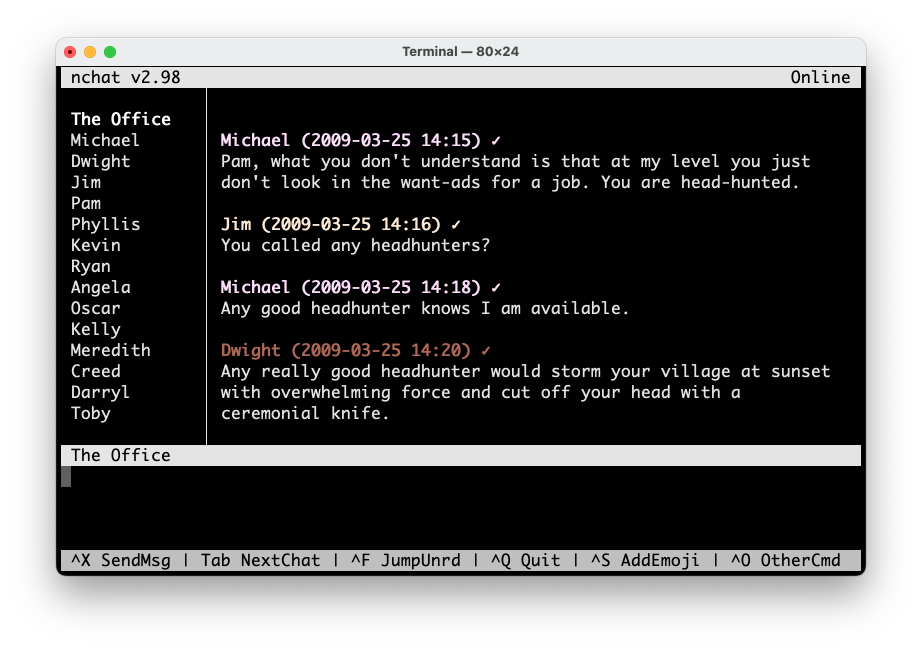
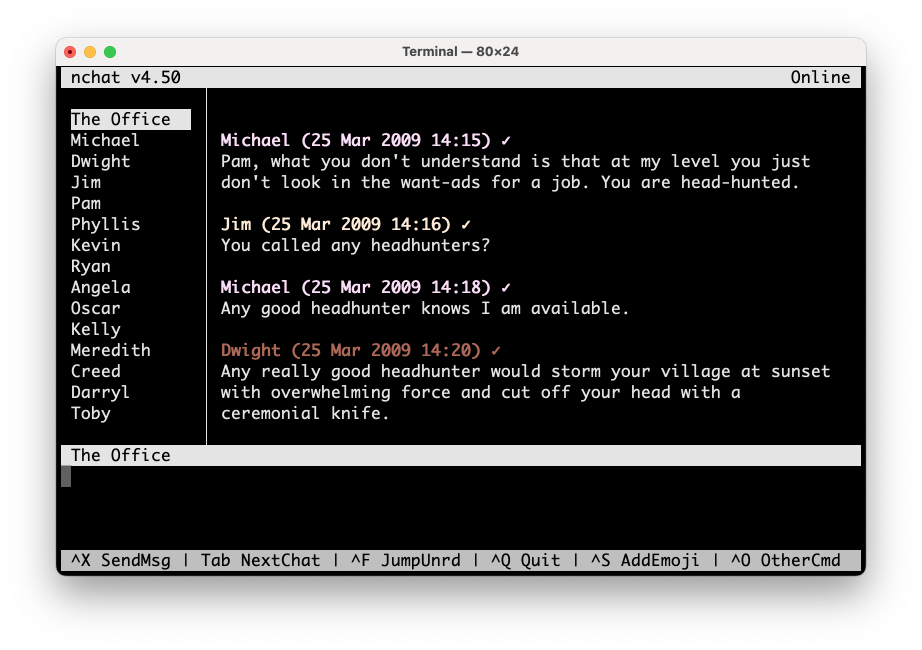
update default and basic color themes

diff --git a/src/uicolorconfig.cpp b/src/uicolorconfig.cpp
@@ -46,7 +46,7 @@ void UiColorConfig::Init()
     { "status_color_bg", "" },
     { "status_color_fg", "" },
     { "list_attr", "" },
-    { "list_attr_selected", "bold" },
+    { "list_attr_selected", "reverse" },
     { "list_color_bg", "" },
     { "list_color_fg", "" },
     { "listborder_attr", "" },

diff --git a/lib/common/src/version.h b/lib/common/src/version.h
@@ -7,4 +7,4 @@
 
 #pragma once
 
-#define NCHAT_VERSION "4.49"
+#define NCHAT_VERSION "4.50"

diff --git a/README.md b/README.md
@@ -661,7 +661,7 @@ This configuration file holds user interface color settings. Default content:
     history_text_sent_color_bg=
     history_text_sent_color_fg=gray
     list_attr=
-    list_attr_selected=bold
+    list_attr_selected=reverse
     list_color_bg=
     list_color_fg=
     listborder_attr=
